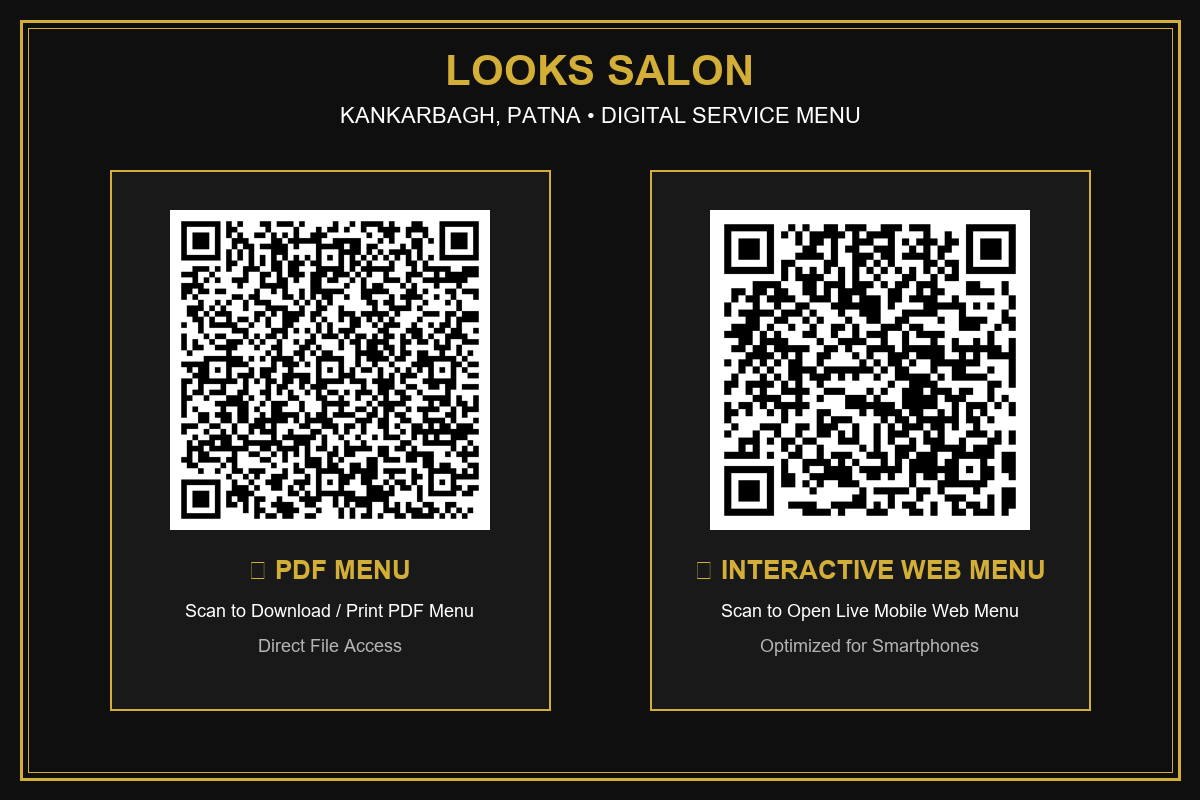
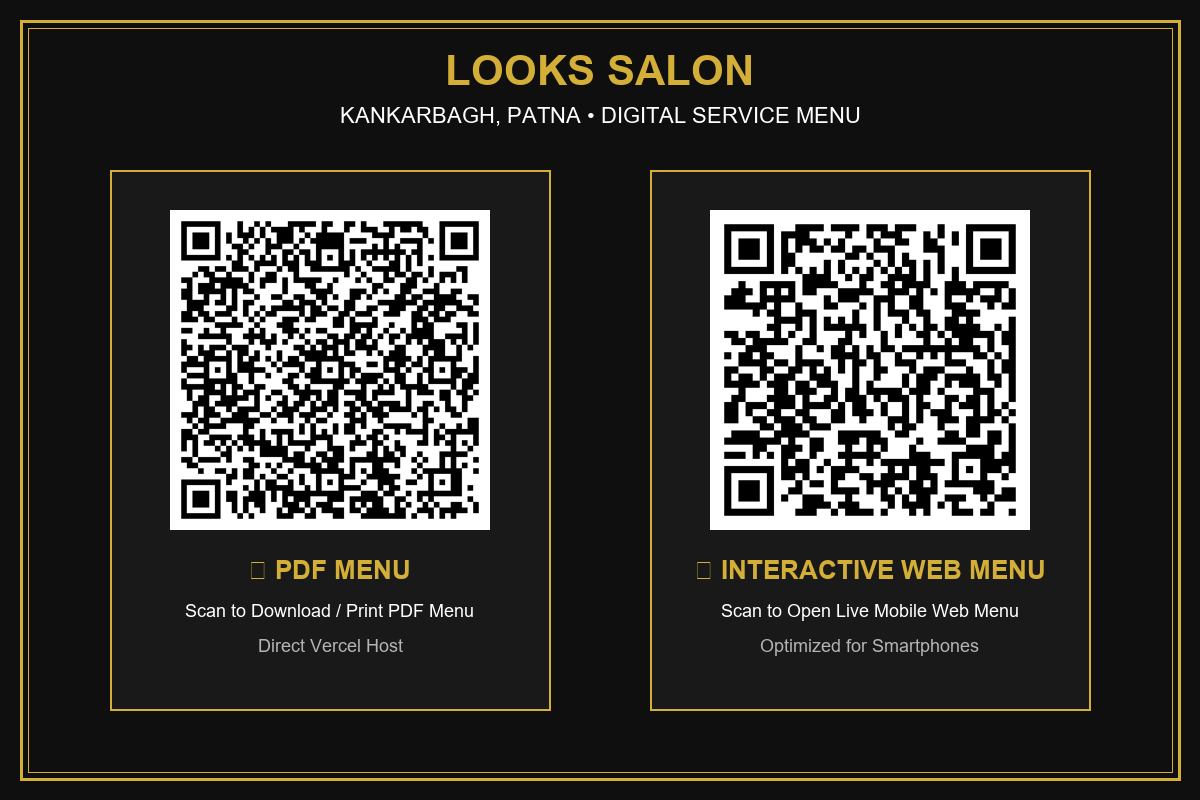
Update QR code links to point directly to Vercel deployment

Changed region(s): [[0.1542, 0.25, 0.4008, 0.6562], [0.5858, 0.2812, 0.8633, 0.6562], [0.2467, 0.7812, 0.3392, 0.8125]]

diff --git a/generate_qr_poster.py b/generate_qr_poster.py
@@ -1,15 +1,14 @@
 import qrcode
-import urllib.parse
 from PIL import Image, ImageDraw, ImageFont
 
-# URLs
-html_url = "https://variz19.github.io/looks-salon/service_menu.html"
-pdf_url = "https://variz19.github.io/looks-salon/Looks%20Salon%20-%20Complete%20Service%20Menu.pdf"
+# Live Vercel Production URLs
+html_url = "https://looks-salon-patna.vercel.app/service_menu.html"
+pdf_url = "https://looks-salon-patna.vercel.app/Looks%20Salon%20-%20Complete%20Service%20Menu.pdf"
 
-print(f"Target Web URL: {html_url}")
-print(f"Target PDF URL: {pdf_url}")
+print(f"Vercel Live Web URL: {html_url}")
+print(f"Vercel Live PDF URL: {pdf_url}")
 
-# 1. Generate standalone QR codes
+# 1. Generate standalone QR codes targeting Vercel
 qr_pdf = qrcode.QRCode(version=1, error_correction=qrcode.constants.ERROR_CORRECT_H, box_size=12, border=2)
 qr_pdf.add_data(pdf_url)
 qr_pdf.make(fit=True)
@@ -22,7 +21,7 @@ qr_html.make(fit=True)
 img_html_qr = qr_html.make_image(fill_color="#000000", back_color="#FFFFFF").convert('RGB')
 img_html_qr.save("standalone_qr_html.png")
 
-# 2. Create a combined luxury display poster image with both QR codes side-by-side
+# 2. Create combined luxury display poster image
 canvas_width = 1200
 canvas_height = 800
 background_color = (15, 15, 15)  # Dark sleek charcoal
@@ -33,11 +32,11 @@ gray_color = (180, 180, 180)
 canvas = Image.new("RGB", (canvas_width, canvas_height), background_color)
 draw = ImageDraw.Draw(canvas)
 
-# Draw elegant gold double border
+# Double gold border
 draw.rectangle([20, 20, canvas_width - 20, canvas_height - 20], outline=gold_color, width=3)
 draw.rectangle([28, 28, canvas_width - 28, canvas_height - 28], outline=gold_color, width=1)
 
-# Try loading fonts
+# Fonts
 try:
     title_font = ImageFont.truetype("arialbd.ttf", 42)
     subtitle_font = ImageFont.truetype("arial.ttf", 22)
@@ -66,7 +65,7 @@ canvas.paste(pdf_qr_resized, (left_cx - qr_size//2, card_top + 40))
 
 draw.text((left_cx, card_top + 400), "📄 PDF MENU", fill=gold_color, font=card_title_font, anchor="mm")
 draw.text((left_cx, card_top + 440), "Scan to Download / Print PDF Menu", fill=white_color, font=card_sub_font, anchor="mm")
-draw.text((left_cx, card_top + 475), "Direct File Access", fill=gray_color, font=card_sub_font, anchor="mm")
+draw.text((left_cx, card_top + 475), "Direct Vercel Host", fill=gray_color, font=card_sub_font, anchor="mm")
 
 # Right Card (Web HTML QR)
 right_cx = 870
@@ -78,4 +77,4 @@ draw.text((right_cx, card_top + 440), "Scan to Open Live Mobile Web Menu", fill=
 draw.text((right_cx, card_top + 475), "Optimized for Smartphones", fill=gray_color, font=card_sub_font, anchor="mm")
 
 canvas.save("LOOKS_SALON_QR_CODES.png")
-print("Saved LOOKS_SALON_QR_CODES.png successfully!")
+print("Saved Vercel-linked LOOKS_SALON_QR_CODES.png successfully!")
